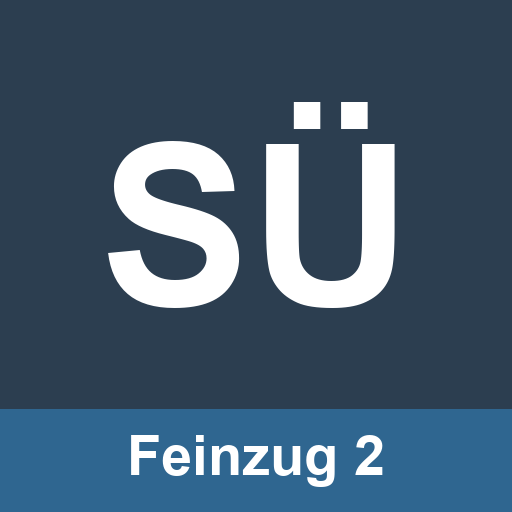
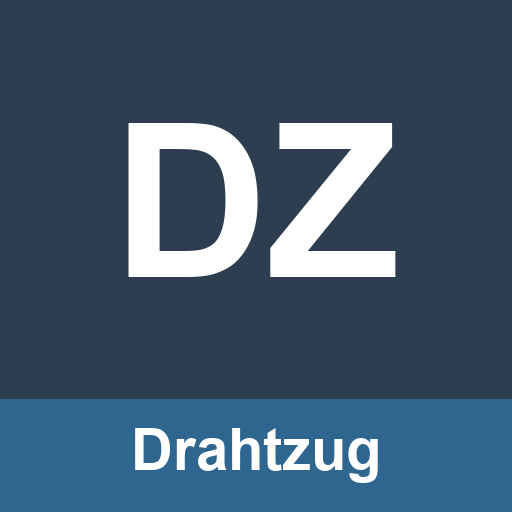
feat: App heißt Drahtzug; Erstmuster und Rüsten getrennt
- App-Name überall auf 'Drahtzug' (Titel, Manifest, Homescreen-Name, Icons DZ)
- 'Maschinen' heißt jetzt 'Schichtübergabe' (Tab kurz 'Übergabe')
- neuer Bereich 'Erstmuster': Liste, Neu anlegen, Detailansicht mit den
  eingetragenen Werten, Bearbeiten, Änderungen, PDF senden, Löschen
- 'Rüsten' ist nur noch fürs Einrichten: Muster wählen, Checkliste abarbeiten,
  Rüst-Verlauf, Rüstung abschließen – kein Bearbeiten und kein PDF mehr
- eigene Suche je Bereich; sechs Tabs passen auch auf dem iPhone SE

App-Version 4.0, Cache drahtzug-v25

Changed region(s): [[0.1875, 0.1875, 0.7812, 0.625], [0.0, 0.7812, 1.0, 0.9688]]

diff --git a/app.js b/app.js
@@ -1,6 +1,6 @@
 "use strict";
 
-const APP_VERSION = "3.2";
+const APP_VERSION = "4.0";
 const REPORT_MAIL = "tigga232332@gmail.com";   // Sammeladresse für Wochenberichte
 const WOCHE_MS = 7 * 24 * 3600 * 1000;
 
@@ -243,9 +243,10 @@ window.addEventListener("error", e => logFehler("Programmfehler", e.message, (e.
 window.addEventListener("unhandledrejection", e => logFehler("Programmfehler", (e.reason && e.reason.message) || e.reason, e.reason && e.reason.stack));
 
 /* ---------- Router ---------- */
-const state = { view: "maschinen", maschine: null, overlay: null, rezept: null, rezeptForm: null, verlauf: null, vergleich: null };
+const state = { view: "maschinen", maschine: null, overlay: null, rezept: null, rezeptForm: null, verlauf: null, vergleich: null, emDetail: null };
 let spModus = "summe";  // Berechnungsart der Vorzüge: "summe" | "kleinster"
 let ruestSuche = "";    // Suchbegriff im Rüsten-Bereich
+let emSuche = "";       // Suchbegriff im Erstmuster-Bereich
 let spulenSuche = "";   // Suchbegriff für gespeicherte Berechnungen
 let spAbzug = 0;        // Galvanik-Abzug je Vorzug in kg (0 / 5 / 7)
 let spEditId = null;    // gesetzt, wenn eine gespeicherte Berechnung bearbeitet wird
@@ -253,7 +254,8 @@ const inhalt = document.getElementById("inhalt");
 const titel = document.getElementById("kopf-titel");
 
 function zeige(view) {
-  state.view = view; state.overlay = null; state.maschine = null; state.rezept = null; state.rezeptForm = null; state.verlauf = null; state.vergleich = null;
+  state.view = view; state.overlay = null; state.maschine = null; state.rezept = null;
+  state.rezeptForm = null; state.verlauf = null; state.vergleich = null; state.emDetail = null;
   document.querySelectorAll(".tab").forEach(t => t.classList.toggle("aktiv", t.dataset.view === view));
   render();
   window.scrollTo(0, 0);
@@ -262,11 +264,15 @@ function render() {
   if (state.overlay === "fehler") return renderFehler();
   if (state.view === "maschinen" && state.maschine) return renderMaschineDetail();
   if (state.view === "ruesten") {
-    if (state.rezeptForm) return renderRezeptForm();
-    if (state.vergleich) return renderRezeptVergleich();
     if (state.verlauf) return renderVerlauf();
     if (state.rezept) return renderRuestCheck();
     return renderRuesten();
+  }
+  if (state.view === "erstmuster") {
+    if (state.rezeptForm) return renderRezeptForm();
+    if (state.vergleich) return renderRezeptVergleich();
+    if (state.emDetail) return renderErstmusterDetail();
+    return renderErstmuster();
   }
   ({ maschinen: renderMaschinen, aufgaben: renderAufgaben, spulen: renderSpulen, mehr: renderMehr }[state.view] || renderMaschinen)();
 }
@@ -277,7 +283,7 @@ function letzterEintrag(m) {
   return alle.length ? alle[alle.length - 1] : null;
 }
 function renderMaschinen() {
-  titel.textContent = "Maschinen";
+  titel.textContent = "Schichtübergabe";
   let kacheln = MASCHINEN.map(m => {
     const e = letzterEintrag(m), farbe = e ? STATUS[e.status].farbe : "none";
     const txt = e ? STATUS[e.status].label : "kein Eintrag";
@@ -599,9 +605,61 @@ function renderRuesten() {
   inhalt.innerHTML = `
     <div class="karte">
       <input type="text" id="ruest-suche" placeholder="Suchen: Kürzel, Aufbau, Maschine, Auftrag …" value="${esc(ruestSuche)}">
-      <button class="btn" data-rezept-neu="1" style="margin-top:10px">+ Neues Draht-Rezept</button>
     </div>
-    <div class="karte"><h2>Muster</h2><div id="ruest-liste">${ruestListeHtml()}</div></div>`;
+    <div class="karte"><h2>Welchen Draht legst du auf?</h2>
+      <p class="hinweis" style="margin-top:0">Muster antippen – dann Werte der Reihe nach einstellen und abhaken.</p>
+      <div id="ruest-liste">${ruestListeHtml()}</div></div>`;
+}
+
+/* ---------- Erstmuster: anlegen, bearbeiten, versenden ---------- */
+function emListeHtml() {
+  const q = emSuche.trim().toLowerCase();
+  const rz = rezepte().slice().reverse().filter(r => !q ||
+    [r.kuerzel, r.aufbau, r.klartext, r.maschine, r.beispiel_auftrag].join(" ").toLowerCase().indexOf(q) !== -1);
+  if (!rz.length) return `<div class="leer">${emSuche ? "Kein Erstmuster gefunden." : "Noch kein Erstmuster angelegt."}</div>`;
+  return rz.map(r => {
+    const vers = (r.historie && r.historie.length) ? `<span class="rz-vers">${r.historie.length + 1} Stände</span>` : "";
+    return `<div class="eintrag rz-eintrag" data-em="${r.id}">
+      <div><b>${esc(r.kuerzel)}</b> · ${esc(r.aufbau)} ${vers}</div>
+      <div class="meta">${esc(r.klartext || "")}${r.maschine ? " · " + esc(r.maschine) : ""}${r.beispiel_auftrag ? " · Auftrag " + esc(r.beispiel_auftrag) : ""} · ${esc(formularName(r.formular))}</div>
+    </div>`;
+  }).join("");
+}
+function renderErstmuster() {
+  titel.textContent = "Erstmuster";
+  inhalt.innerHTML = `
+    <div class="karte">
+      <input type="text" id="em-suche" placeholder="Suchen: Kürzel, Aufbau, Maschine, Auftrag …" value="${esc(emSuche)}">
+      <button class="btn" data-rezept-neu="1" style="margin-top:10px">+ Neues Erstmuster</button>
+    </div>
+    <div class="karte"><h2>Erstmuster</h2><div id="em-liste">${emListeHtml()}</div></div>`;
+}
+function renderErstmusterDetail() {
+  const r = rezepte().find(x => x.id === state.emDetail);
+  if (!r) { state.emDetail = null; return render(); }
+  titel.textContent = r.kuerzel + " " + r.aufbau;
+  const soll = r.soll || {};
+  const felder = formularFelder(r.formular).filter(f => !f.angabe && soll[f.name]);
+  const angaben = formularFelder(r.formular).filter(f => f.angabe && soll[f.name]);
+  const werte = felder.length
+    ? felder.map(f => `<div class="zeile"><span>${esc(f.name)}</span><span><span class="w">${esc(soll[f.name])}</span>${f.einheit ? `<span class="einheit">${esc(f.einheit)}</span>` : ""}</span></div>`).join("")
+    : `<div class="leer">Noch keine Werte eingetragen.</div>`;
+  inhalt.innerHTML = `
+    <button class="btn btn-grau btn-klein" data-em-zurueck="1">‹ Zurück</button>
+    <div class="karte" style="margin-top:12px">
+      <div class="meta">${esc(r.klartext || "")}${r.maschine ? " · " + esc(r.maschine) : ""}${r.beispiel_auftrag ? " · Auftrag " + esc(r.beispiel_auftrag) : ""}</div>
+      <div style="margin-top:6px"><b>Formular:</b> ${esc(formularName(r.formular))}</div>
+      <div class="meta">angelegt ${esc(r.created_at || "")}${r.geaendert_am && r.geaendert_am !== r.created_at ? " · geändert " + esc(r.geaendert_am) : ""}${r.benutzer ? " · " + esc(r.benutzer) : ""}</div>
+    </div>
+    <div class="karte"><h2>Eingetragene Werte</h2>${werte}
+      ${angaben.length ? `<p class="hinweis">Angaben wie Maschinentyp und KSS-Produkt stehen im PDF (${angaben.length} Stück).</p>` : ""}
+    </div>
+    <div class="karte" style="display:flex;gap:8px;flex-wrap:wrap">
+      <button class="btn btn-klein" data-rezept-bearbeiten="${r.id}">Bearbeiten</button>
+      <button class="btn btn-klein btn-grau" data-vergleich="${r.id}">Änderungen</button>
+      <button class="btn btn-klein" data-erstmuster="${r.id}">Erstmuster senden</button>
+      <button class="btn btn-klein btn-rot" data-em-loeschen="${r.id}">Löschen</button>
+    </div>`;
 }
 
 /* Assistent zum Anlegen/Ändern eines Musters – Schritt für Schritt, Werte antippen statt tippen */
@@ -750,12 +808,10 @@ function renderRuestCheck() {
     <div class="karte"><h2>Einzustellende Werte</h2>
       ${punkte || '<div class="leer">Keine Werte hinterlegt. Rezept bearbeiten und Sollwerte eintragen.</div>'}</div>
     <div class="karte" style="display:flex;gap:8px;flex-wrap:wrap">
-      <button class="btn btn-klein" data-rezept-bearbeiten="${r.id}">Rezept bearbeiten</button>
-      <button class="btn btn-klein btn-grau" data-vergleich="${r.id}">Änderungen</button>
       <button class="btn btn-klein btn-grau" data-verlauf="${r.id}">Rüst-Verlauf</button>
-      <button class="btn btn-klein" data-erstmuster="${r.id}">Erstmuster senden</button>
       ${g > 0 ? `<button class="btn btn-klein" data-ruest-abschluss="${r.id}">Rüstung abschließen</button>` : ""}
-    </div>`;
+    </div>
+    <p class="hinweis">Werte ändern oder das Blatt versenden: im Bereich Erstmuster.</p>`;
 }
 
 function renderVerlauf() {
@@ -987,7 +1043,7 @@ function renderMehr() {
     </div>
     <div class="karte">
       <h2>Info</h2>
-      <p class="hinweis" style="margin-top:0">Schichtübergabe Feinzug 2 – läuft offline auf dem Gerät, alle Daten bleiben lokal.
+      <p class="hinweis" style="margin-top:0"><b>Drahtzug</b> – Feinzug 2. Läuft offline auf dem Gerät, alle Daten bleiben lokal.
       Maschinen und Ampel-Status sind fest vorgegeben (Z49–Z83; grün=Produktion, gelb=Umbau, rot=Drahtriss, blau=Reparatur, violett=Abrüsten).</p>
     </div>`;
 }
@@ -1235,7 +1291,7 @@ document.getElementById("tabs").addEventListener("click", e => {
   const t = e.target.closest(".tab"); if (t) zeige(t.dataset.view);
 });
 document.addEventListener("click", e => {
-  const el = e.target.closest("[data-maschine],[data-zurueck],[data-status],[data-speichern-eintrag],[data-add-todo],[data-toggle-todo],[data-del-todo],[data-modus],[data-abzug],[data-save-spule],[data-edit-spule],[data-del-spule],[data-g-uebernehmen],[data-rezept-neu],[data-rezept],[data-rezept-zurueck],[data-rezept-speichern],[data-rezept-bearbeiten],[data-formular],[data-wiz-vorlage],[data-wiz-leer],[data-wiz-kopie],[data-wiz-zurueck-start],[data-wiz-weiter],[data-wiz-zurueck],[data-wiz-wert],[data-wiz-eigen],[data-verlauf],[data-verlauf-zurueck],[data-vergleich],[data-vergleich-zurueck],[data-check],[data-ruest-abschluss],[data-erstmuster],[data-export],[data-import],[data-fehler-zurueck],[data-fehler-senden],[data-fehler-teilen],[data-fehler-kopieren],[data-fehler-loeschen],[data-wochenbericht],[data-code-setzen],[data-code-aendern],[data-code-entfernen],[data-grossschrift],[data-abmelden],[data-benutzer-neu],[data-pw-aendern],[data-benutzer-loeschen]");
+  const el = e.target.closest("[data-maschine],[data-zurueck],[data-status],[data-speichern-eintrag],[data-add-todo],[data-toggle-todo],[data-del-todo],[data-modus],[data-abzug],[data-save-spule],[data-edit-spule],[data-del-spule],[data-g-uebernehmen],[data-rezept-neu],[data-rezept],[data-em],[data-em-zurueck],[data-em-loeschen],[data-rezept-zurueck],[data-rezept-speichern],[data-rezept-bearbeiten],[data-formular],[data-wiz-vorlage],[data-wiz-leer],[data-wiz-kopie],[data-wiz-zurueck-start],[data-wiz-weiter],[data-wiz-zurueck],[data-wiz-wert],[data-wiz-eigen],[data-verlauf],[data-verlauf-zurueck],[data-vergleich],[data-vergleich-zurueck],[data-check],[data-ruest-abschluss],[data-erstmuster],[data-export],[data-import],[data-fehler-zurueck],[data-fehler-senden],[data-fehler-teilen],[data-fehler-kopieren],[data-fehler-loeschen],[data-wochenbericht],[data-code-setzen],[data-code-aendern],[data-code-entfernen],[data-grossschrift],[data-abmelden],[data-benutzer-neu],[data-pw-aendern],[data-benutzer-loeschen]");
   if (!el) return;
   if (el.dataset.maschine) { state.maschine = el.dataset.maschine; render(); window.scrollTo(0, 0); }
   else if (el.dataset.zurueck) { state.maschine = null; render(); }
@@ -1257,7 +1313,7 @@ document.addEventListener("click", e => {
   else if (el.dataset.saveSpule) speichereSpule();
   else if (el.dataset.editSpule) editSpule(el.dataset.editSpule);
   else if (el.dataset.delSpule) delSpule(el.dataset.delSpule);
-  else if (el.dataset.rezeptNeu) { state.rezeptForm = "neu"; wizStart("neu"); render(); window.scrollTo(0, 0); }
+  else if (el.dataset.rezeptNeu) { zeige("erstmuster"); state.rezeptForm = "neu"; wizStart("neu"); render(); window.scrollTo(0, 0); }
   else if (el.dataset.wizVorlage) { wiz.phase = "vorlage"; render(); window.scrollTo(0, 0); }
   else if (el.dataset.wizLeer) { wiz.phase = "schritte"; wiz.schritt = 0; render(); window.scrollTo(0, 0); }
   else if (el.dataset.wizZurueckStart) { wiz.phase = "start"; render(); window.scrollTo(0, 0); }
@@ -1284,13 +1340,25 @@ document.addEventListener("click", e => {
     if (box) { box.classList.add("zeigen"); const i = box.querySelector("input"); if (i) i.focus(); }
   }
   else if (el.dataset.rezept) { state.rezept = el.dataset.rezept; render(); window.scrollTo(0, 0); }
-  else if (el.dataset.rezeptZurueck) { state.rezeptForm = null; wiz = null; state.rezept = null; state.verlauf = null; render(); window.scrollTo(0, 0); }
+  else if (el.dataset.em) { state.emDetail = el.dataset.em; render(); window.scrollTo(0, 0); }
+  else if (el.dataset.emZurueck) { state.emDetail = null; render(); window.scrollTo(0, 0); }
+  else if (el.dataset.emLoeschen) {
+    if (!confirm("Erstmuster wirklich löschen? Der Verlauf geht mit verloren.")) return;
+    DB.set("rezepte", rezepte().filter(r => r.id !== el.dataset.emLoeschen));
+    state.emDetail = null; flash("Erstmuster gelöscht."); render(); window.scrollTo(0, 0);
+  }
+  else if (el.dataset.rezeptZurueck) { state.rezeptForm = null; wiz = null; state.verlauf = null; render(); window.scrollTo(0, 0); }
   else if (el.dataset.rezeptSpeichern) speichereRezept();
-  else if (el.dataset.rezeptBearbeiten) { state.rezeptForm = el.dataset.rezeptBearbeiten; wizStart(el.dataset.rezeptBearbeiten); render(); window.scrollTo(0, 0); }
+  else if (el.dataset.rezeptBearbeiten) { state.rezeptForm = el.dataset.rezeptBearbeiten; state.emDetail = el.dataset.rezeptBearbeiten; wizStart(el.dataset.rezeptBearbeiten); render(); window.scrollTo(0, 0); }
   else if (el.dataset.verlauf) { state.verlauf = el.dataset.verlauf; state.rezept = null; render(); window.scrollTo(0, 0); }
   else if (el.dataset.verlaufZurueck) { state.verlauf = null; state.rezept = el.dataset.verlaufZurueck; render(); window.scrollTo(0, 0); }
-  else if (el.dataset.vergleich) { state.vergleich = el.dataset.vergleich; state.rezept = null; render(); window.scrollTo(0, 0); }
-  else if (el.dataset.vergleichZurueck) { state.vergleich = null; state.rezept = el.dataset.vergleichZurueck; render(); window.scrollTo(0, 0); }
+  else if (el.dataset.vergleich) { state.vergleich = el.dataset.vergleich; state.rezept = null; state.emDetail = null; render(); window.scrollTo(0, 0); }
+  else if (el.dataset.vergleichZurueck) {
+    state.vergleich = null;
+    if (state.view === "erstmuster") state.emDetail = el.dataset.vergleichZurueck;
+    else state.rezept = el.dataset.vergleichZurueck;
+    render(); window.scrollTo(0, 0);
+  }
   else if (el.dataset.check) { if (!e.target.classList.contains("p-ist")) toggleCheck(el.dataset.check); }
   else if (el.dataset.ruestAbschluss) ruestAbschluss(el.dataset.ruestAbschluss);
   else if (el.dataset.erstmuster) sendeErstmuster(el.dataset.erstmuster);
@@ -1349,6 +1417,7 @@ document.getElementById("wochen-banner").addEventListener("click", wochenbericht
 document.addEventListener("input", e => {
   if (e.target.id === "spulen-suche") { spulenSuche = e.target.value; const l = document.getElementById("spulen-liste"); if (l) l.innerHTML = spulenListeHtml(); return; }
   if (e.target.id === "ruest-suche") { ruestSuche = e.target.value; const l = document.getElementById("ruest-liste"); if (l) l.innerHTML = ruestListeHtml(); return; }
+  if (e.target.id === "em-suche") { emSuche = e.target.value; const l = document.getElementById("em-liste"); if (l) l.innerHTML = emListeHtml(); return; }
   if (e.target.dataset && e.target.dataset.stamm && wiz) { wiz.stamm[e.target.dataset.stamm] = e.target.value; return; }
   if (e.target.classList && e.target.classList.contains("wiz-eigen") && wiz) { wiz.werte[e.target.dataset.feld] = e.target.value; return; }
   if (e.target.dataset && e.target.dataset.ist) { setzeIst(e.target.dataset.ist, e.target.value); return; }
@@ -1383,6 +1452,12 @@ function delSpule(id) { if (!confirm("Berechnung löschen?")) return; DB.set("sp
 
 /* ---------- Was ist neu (Änderungen je Version) ---------- */
 const CHANGELOG = {
+  "4.0": [
+    "Die App heißt jetzt Drahtzug",
+    "Maschinen heißt jetzt Schichtübergabe",
+    "Neuer Bereich Erstmuster: anlegen, bearbeiten, Änderungen, PDF senden",
+    "Rüsten ist nur noch fürs Einrichten – Checkliste abarbeiten und abschließen",
+  ],
   "3.2": [
     "Verlegung Hand/Automatik als Auswahl, ebenso Spulengröße und Kontaktband",
     "Maschinentypen und KSS-Produkte sind jetzt änderbar – üblicher Wert als Knopf",

diff --git a/tests/app.test.js b/tests/app.test.js
@@ -100,8 +100,8 @@ module.exports = async function () {
   d.querySelector("[data-save-spule]").click();
   check("Bearbeiten erzeugt keine Dublette", S("spulen").length === 1);
 
-  // --- Rüsten: Assistent, Checkliste, Versionierung ---
-  tab("ruesten");
+  // --- Erstmuster: Assistent; Rüsten: Checkliste ---
+  tab("erstmuster");
   d.querySelector("[data-rezept-neu]").click();
   d.querySelector("[data-wiz-leer]").click();
   check("Assistent: 5 Schritte", d.querySelectorAll(".wpunkt").length === 5);
@@ -123,10 +123,16 @@ module.exports = async function () {
   check("Muster gespeichert", S("rezepte").length === 1 && S("rezepte")[0].kuerzel === "VSW");
   check("Muster trägt Benutzer", S("rezepte")[0].benutzer === "güntzel");
 
-  setVal(d.getElementById("ruest-suche"), "VSW");
-  check("Muster-Suche findet VSW", d.getElementById("ruest-liste").innerHTML.indexOf("VSW") !== -1);
-  setVal(d.getElementById("ruest-suche"), "");
+  setVal(d.getElementById("em-suche"), "VSW");
+  check("Erstmuster-Suche findet VSW", d.getElementById("em-liste").innerHTML.indexOf("VSW") !== -1);
+  setVal(d.getElementById("em-suche"), "");
+  check("Erstmuster-Bereich hat Neu-Knopf", d.querySelector("[data-rezept-neu]") !== null);
 
+  tab("ruesten");
+  check("Rüsten hat keinen Neu-Knopf", d.querySelector("[data-rezept-neu]") === null);
+  setVal(d.getElementById("ruest-suche"), "VSW");
+  check("Rüst-Suche findet VSW", d.getElementById("ruest-liste").innerHTML.indexOf("VSW") !== -1);
+  setVal(d.getElementById("ruest-suche"), "");
   d.querySelector("[data-rezept]").click();
   check("Checkliste zeigt 1 Punkt", d.querySelectorAll(".rpunkt").length === 1);
   check("Zeile hat Name, Soll und Ist-Feld",
@@ -138,8 +144,13 @@ module.exports = async function () {
   check("Ist-Wert gespeichert", JSON.stringify(S("rezepte")[0].ruest_status).indexOf("17,5") !== -1);
   d.querySelector("[data-ruest-abschluss]").click();
   check("Rüstung im Verlauf", S("ruestungen").length === 1 && S("ruestungen")[0].benutzer === "güntzel");
+  check("Rüst-Checkliste ohne Bearbeiten", d.querySelector("[data-rezept-bearbeiten]") === null);
+  check("Rüst-Checkliste ohne PDF-Versand", d.querySelector("[data-erstmuster]") === null);
 
-  // Änderung erzeugt eine Version (Checkliste ist nach dem Abschluss weiter offen)
+  // Änderung erzeugt eine Version – jetzt über den Erstmuster-Bereich
+  tab("erstmuster");
+  d.querySelector("[data-em]").click();
+  check("Erstmuster-Detail zeigt Werte", d.getElementById("inhalt").innerHTML.indexOf("Eingetragene Werte") !== -1);
   d.querySelector("[data-rezept-bearbeiten]").click();
   weiter(); weiter();
   wizWert("Ziehgeschwindigkeit", "20");
@@ -151,7 +162,7 @@ module.exports = async function () {
     && d.getElementById("inhalt").innerHTML.indexOf("20") !== -1);
 
   // --- Erstmuster-Formulare: Auswahl bestimmt die abgefragten Werte ---
-  tab("ruesten");
+  tab("erstmuster");
   d.querySelector("[data-rezept-neu]").click();
   d.querySelector("[data-wiz-leer]").click();
   check("drei Formulare zur Auswahl", d.querySelectorAll(".formwahl").length === 3);
@@ -181,7 +192,7 @@ module.exports = async function () {
   check("Liste zeigt den Formularnamen", d.getElementById("inhalt").innerHTML.indexOf("Drahtzug allgemein") !== -1);
 
   // --- Vorschlagsknöpfe: übliche Werte, aber alles überschreibbar ---
-  tab("ruesten");
+  tab("erstmuster");
   d.querySelector("[data-rezept-neu]").click();
   d.querySelector("[data-wiz-leer]").click();
   stamm({ kuerzel: "DROP", aufbau: "1x1" });
@@ -196,7 +207,7 @@ module.exports = async function () {
   check("Auswahl wurde gespeichert", drop && drop.soll["Verlegung Hand/Automatik"] === "Automatik");
 
   // Angaben wie Maschinentyp stehen nicht in der Rüst-Checkliste
-  d.querySelector("[data-rezept]").click();          // neuestes Muster (DROP) öffnen
+  d.querySelector("[data-em]").click();              // neuestes Muster (DROP) öffnen
   d.querySelector("[data-rezept-bearbeiten]").click();
   weiter(); weiter(); weiter();                 // Draht-Typ -> Ablauf -> Ziehen -> Glühe
   const kssKnopf = d.querySelector('[data-wiz-wert="KSS-Produkt Glühe"]');
@@ -205,16 +216,18 @@ module.exports = async function () {
   weiter(); weiter();                           // Spuler, dann Fertig
   const drop2 = S("rezepte").find(r => r.kuerzel === "DROP");
   check("KSS-Produkt gespeichert", drop2.soll["KSS-Produkt Glühe"].indexOf("Bechem") !== -1);
-  // nach dem Bearbeiten ist die Checkliste bereits offen
+  // Checkliste liegt im Rüsten-Bereich
+  tab("ruesten");
+  d.querySelector("[data-rezept]").click();
   const namen = Array.from(d.querySelectorAll(".rpunkt .p-name")).map(e => e.textContent);
   check("Checkliste zeigt Einstellwert (Verlegung)", namen.indexOf("Verlegung Hand/Automatik") !== -1);
   check("Checkliste zeigt keine Angaben (KSS-Produkt)", namen.indexOf("KSS-Produkt Glühe") === -1);
 
-  // --- Erstmuster senden: Knopf vorhanden und erzeugt ein PDF zum Teilen ---
-  tab("ruesten");
-  d.querySelector("[data-rezept]").click();
+  // --- Erstmuster senden: Knopf sitzt im Erstmuster-Bereich ---
+  tab("erstmuster");
+  d.querySelector("[data-em]").click();
   const senden = d.querySelector("[data-erstmuster]");
-  check("Knopf 'Erstmuster senden' in der Muster-Ansicht", senden !== null && senden.textContent.indexOf("Erstmuster") !== -1);
+  check("Knopf 'Erstmuster senden' in der Erstmuster-Ansicht", senden !== null && senden.textContent.indexOf("Erstmuster") !== -1);
   let geteilt = null;
   w.navigator.canShare = () => true;
   w.navigator.share = o => { geteilt = o; return Promise.resolve(); };

diff --git a/index.html b/index.html
@@ -3,10 +3,10 @@
 <head>
 <meta charset="utf-8">
 <meta name="viewport" content="width=device-width, initial-scale=1, viewport-fit=cover, maximum-scale=1">
-<title>Schichtübergabe Feinzug 2</title>
+<title>Drahtzug – Feinzug 2</title>
 <meta name="apple-mobile-web-app-capable" content="yes">
 <meta name="apple-mobile-web-app-status-bar-style" content="black-translucent">
-<meta name="apple-mobile-web-app-title" content="Schichtübergabe">
+<meta name="apple-mobile-web-app-title" content="Drahtzug">
 <meta name="mobile-web-app-capable" content="yes">
 <meta name="theme-color" content="#2c3e50">
 <link rel="apple-touch-icon" href="icon-180.png">
@@ -17,7 +17,7 @@
 
 <div id="sperre" hidden>
   <div class="sperre-box">
-    <div class="sperre-logo">SÜ</div>
+    <div class="sperre-logo">DZ</div>
     <div id="sperre-titel">Code eingeben</div>
     <input type="password" id="sperre-code" inputmode="numeric" autocomplete="off" maxlength="12" placeholder="Code">
     <p id="sperre-fehler"></p>
@@ -27,7 +27,7 @@
 
 <div id="login" hidden>
   <div class="sperre-box">
-    <div class="sperre-logo">SÜ</div>
+    <div class="sperre-logo">DZ</div>
     <div id="login-titel">Anmelden</div>
     <input type="text" id="login-name" autocomplete="username" autocapitalize="none" placeholder="Benutzer">
     <input type="password" id="login-pw" autocomplete="current-password" placeholder="Passwort">
@@ -56,10 +56,11 @@
 </div>
 
 <nav id="tabs">
-  <button class="tab" data-view="maschinen"><span class="tab-ico">▦</span>Maschinen</button>
+  <button class="tab" data-view="maschinen"><span class="tab-ico">▦</span>Übergabe</button>
   <button class="tab" data-view="aufgaben"><span class="tab-ico">✓</span>Aufgaben</button>
   <button class="tab" data-view="spulen"><span class="tab-ico">↻</span>Spulen</button>
   <button class="tab" data-view="ruesten"><span class="tab-ico">⚙</span>Rüsten</button>
+  <button class="tab" data-view="erstmuster"><span class="tab-ico">▤</span>Erstmuster</button>
   <button class="tab" data-view="mehr"><span class="tab-ico">≡</span>Mehr</button>
 </nav>
 

diff --git a/sw.js b/sw.js
@@ -1,5 +1,5 @@
 /* Service Worker – macht die App offline nutzbar. Version bei Änderungen erhöhen. */
-const CACHE = "schichtuebergabe-v24";
+const CACHE = "drahtzug-v25";
 const DATEIEN = [
   "./", "index.html", "style.css", "app.js", "pdf.js", "manifest.json",
   "icon-180.png", "icon-192.png", "icon-512.png",
